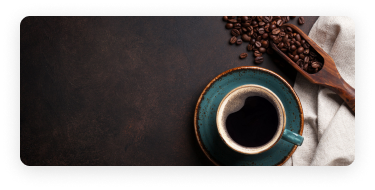
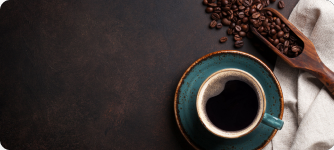
asd

diff --git a/src/components/mainPage/mainPage.scss b/src/components/mainPage/mainPage.scss
@@ -8,7 +8,7 @@
   justify-content: space-between;
   font-size: 18px;
   font-weight: 700;
-  margin: 5% 10% 0;
+  margin: 5% 10%;
   &-container {
     display: flex;
     flex-direction: column;
@@ -42,14 +42,13 @@
 .container-img {
   position: relative;
   color: #ffffff;
-  &-cup {
-    width: 100%;
-  }
+  border-radius: 20px;
+  overflow: hidden;
   &-line {
     &__start {
       position: absolute;
-      top: 14px;
-      left: 30px;
+      top: 0px;
+      left: 10px;
       font-weight: 400;
       font-size: 18px;
       line-height: 29px;
@@ -60,8 +59,8 @@
     }
     &__next {
       position: absolute;
-      left: 30px;
-      top: 70px;
+      left: 10px;
+      top: 40px;
       font-size: 12px;
       margin-top: 15px;
     }
@@ -70,8 +69,8 @@
       font-weight: 400;
       font-size: 24px;
       line-height: 43px;
-      left: 30px;
-      top: 84px;
+      left: 10px;
+      top: 60px;
       color: #ff9314;
       margin: 5px 0;
     }
@@ -99,4 +98,8 @@ a:-webkit-any-link {
   max-height: 120px;
   width: 100%;
   height: 60%;
+}
+
+.help {
+  margin: 0 5%;
 }

diff --git a/src/components/profile/rewards/rewards.scss b/src/components/profile/rewards/rewards.scss
@@ -14,17 +14,15 @@
   }
   &__list {
     border: 2px solid #ff9314;
-    padding: 3%;
     border-radius: 20px;
     display: flex;
     flex-direction: column;
-    align-items: flex-end;
     background-color: #e5e5e5;
+    overflow: hidden;
     & button {
-      margin-top: -5%;
-      padding: 4%;
-      border-radius: 10px;
-      background-color: #321d0b;
+      margin-top: -2%;
+      padding: 6%;
+      background-color: transparent;
       border: none;
       animation: changer 2s infinite;
     }
@@ -33,7 +31,7 @@
 
 @keyframes changer {
   0% {
-    color: #fff;
+    color: #000;
   }
   25% {
     color: blue;
@@ -46,6 +44,6 @@
   }
 
   100% {
-    color: yellow;
+    color: #000;
   }
 }

diff --git a/src/components/mainPage/mainPage/MainPage.jsx b/src/components/mainPage/mainPage/MainPage.jsx
@@ -11,7 +11,9 @@ const MainPage = ({ fullname, location, count, discount, orders }) => {
   return (
     <>
       <Header fullname={fullname} loc={location} liked={count} navigate={navigate} />
-      <MainImg navigate={navigate} />
+      <div className="help">
+        <MainImg navigate={navigate} />
+      </div>
       <Recomended forYou={orders} discount={discount} />
       <PopularBrand />
       <Shop />

diff --git a/src/components/profile/policy/policy.scss b/src/components/profile/policy/policy.scss
@@ -6,4 +6,7 @@
     font-size: 25px;
     margin: 0;
   }
+  &__container {
+    margin-bottom: 15%;
+  }
 }
